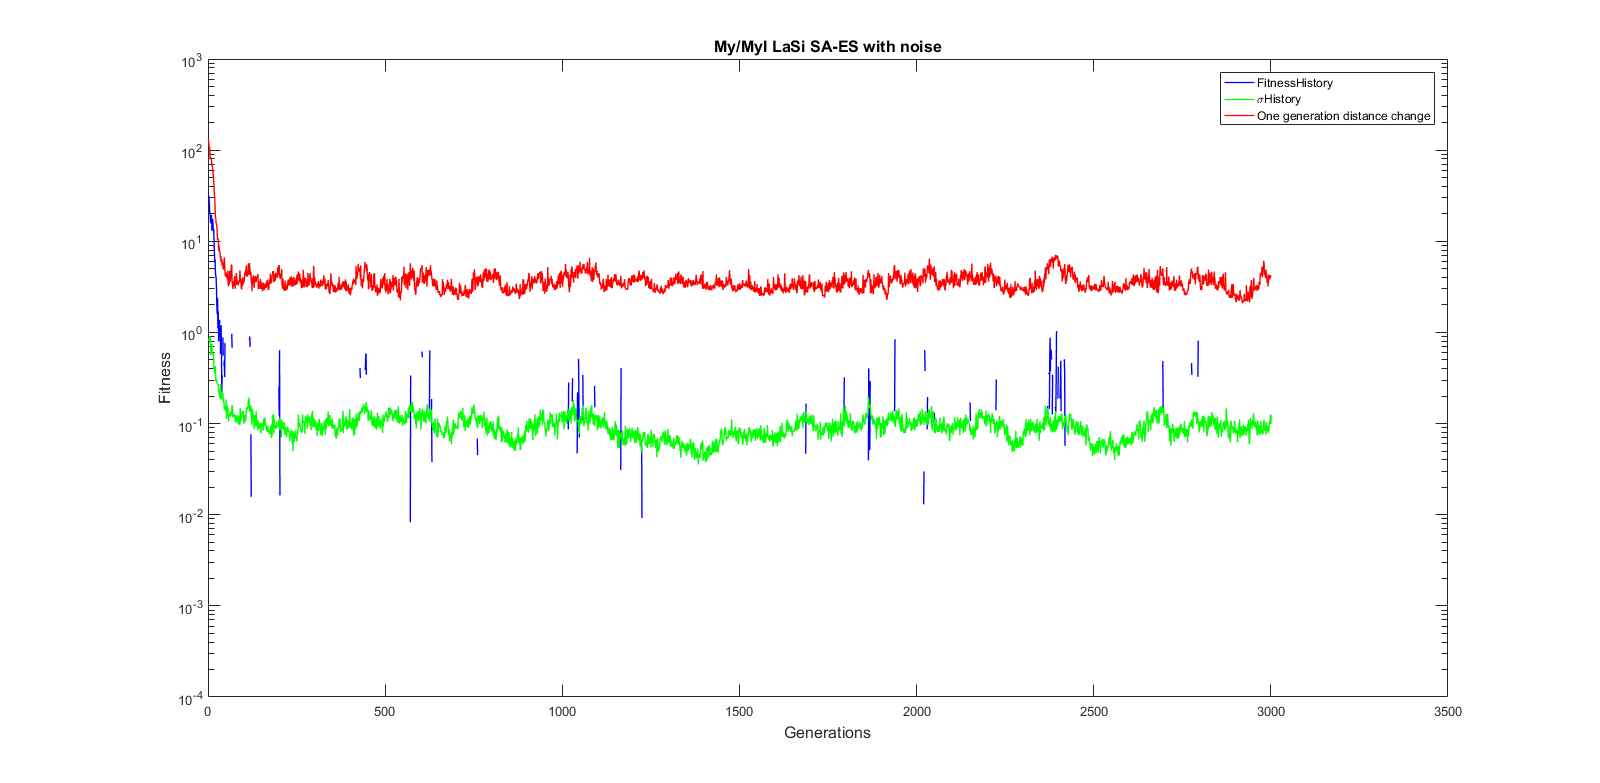
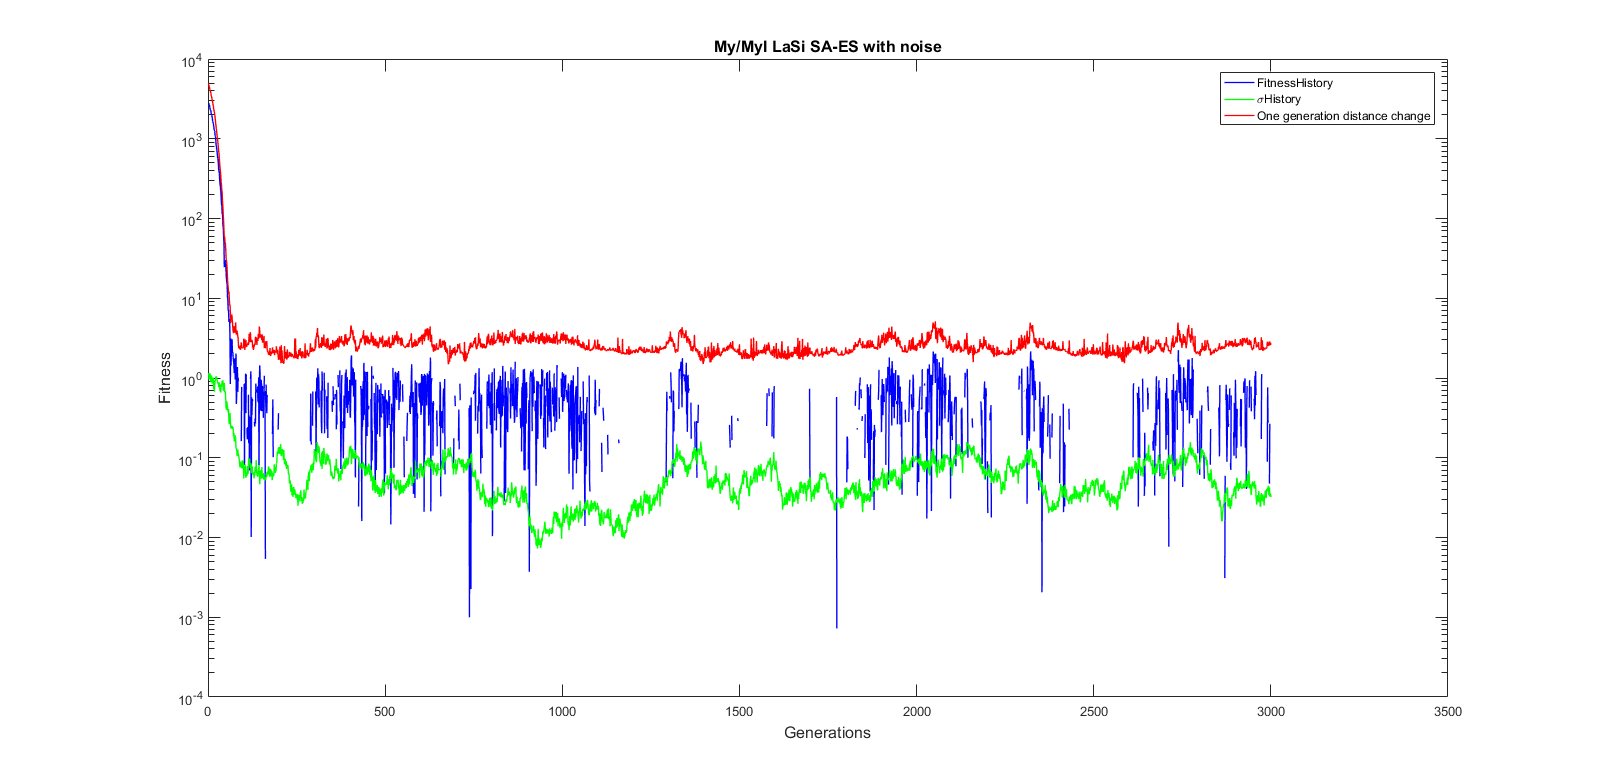
Task 10 completed

Changed region(s): [[0.125, 0.1533, 0.8125, 0.705], [0.0938, 0.7663, 0.125, 0.7969]]

diff --git a/task10/run_task10.m b/task10/run_task10.m
@@ -1,12 +1,12 @@
 randn('state', 7);
     
 
-lambda = 20; 
+lambda = 500; 
 N = 30; 
 rho = 1; % Size of family (parents)
 sigmaMutation = 1;
 sigmaStop = 10^(-5);
-my = ones(N,1)*10; % Size of parent population
+my = 1; % Size of parent population
 differenceToOptimumGenerations = [];
 [iterations, yOptimalVector, fitnessHistory, sigmaHistory, differenceToOptimumGenerations] = MyMyILaSiSelfAdaptationESwithNoise(sigmaMutation, sigmaStop, N, my, lambda, rho, 'QuadraticSphereModelWithNoise', 3000);
 iterations

diff --git a/task10/MyMyILaSiSelfAdaptationESwithNoise.m b/task10/MyMyILaSiSelfAdaptationESwithNoise.m
@@ -26,7 +26,7 @@ function [iterations, yOptimalVector, fitnessHistory, sigmaHistory, differenceTo
     tau = 1 / sqrt(2*N); % sqrt(2*N) instead of sqrt(N) Skript, s. 106
     
     % Preparing parent population. sSkript, s.97
-    initialParentalVector = ones(1, N);
+    initialParentalVector = ones(1, N)*10;
     for k = 1:my
         yOptimalVector = [yOptimalVector; initialParentalVector sigmaMutation feval(fitnessCalculationFunction, initialParentalVector)];
     end
